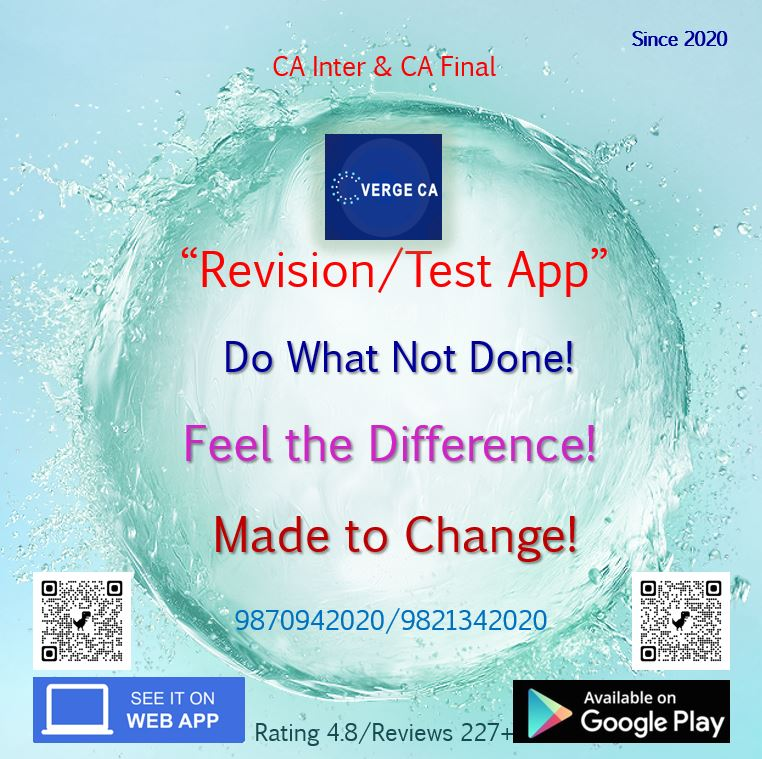
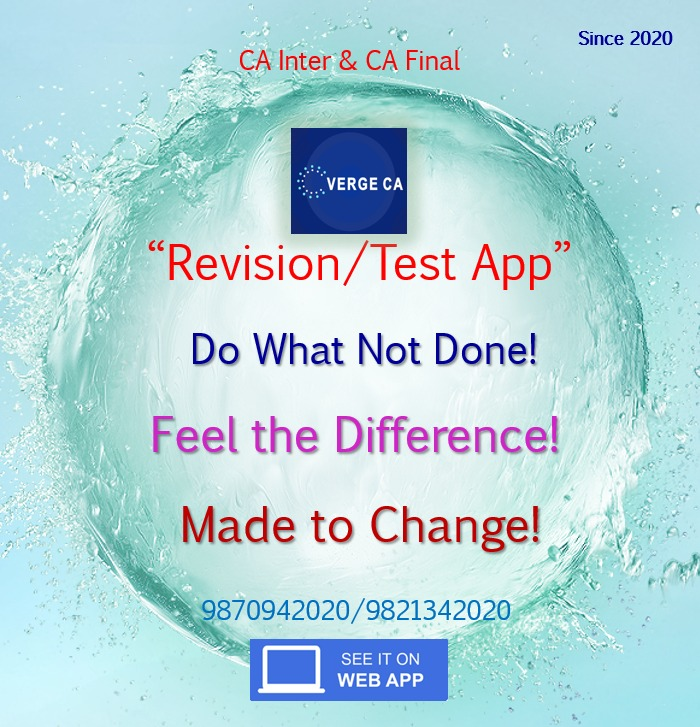
updating page

diff --git a/app/about/page.tsx b/app/about/page.tsx
@@ -69,7 +69,7 @@ export default function page() {
                 <div className="text-lg text-justify text-muted-foreground mt-10">
                     Founded and led Verge CA App, a specialized application tailored to the needs of aspiring Chartered Accountants, focusing on the provision of in-depth subject knowledge & technical guidance of highest educational quality, since November, 2020. Developed and curated online content and practice materials to aid CA Aspirants in their journey.
                     <br /><br />
-                    Verge CA App is Revision App for CA Final & CA Inter Students and is available on both Web App & Mobile App. CA Inter (Subjects: Advanced Accounting, Costing, Audit, Financial Management & Strategic Management) & CA Final (Subjects: Financial Reporting, Advanced Financial Management & Auditing).
+                    Verge CA App is Revision App for CA Final & CA Inter Students and is available on both Web App. CA Inter (Subjects: Advanced Accounting, Costing, Audit, Financial Management & Strategic Management) & CA Final (Subjects: Financial Reporting, Advanced Financial Management & Auditing).
                     <br /><br />
                     Verge CA is Live Comprehensive & Time Management Revision App covering all Institute Materials at one place. Compilation Covers: (New Syllabus & Old Syllabus). App contains Questions from Institute Materials (Study Material, Practice Manual, Previous Exam Papers, RTP&apos;s & MTP&apos;s) at one place, which would help the students get a competitive edge in CA Exams.
                     <br /><br />

diff --git a/lib/data.tsx b/lib/data.tsx
@@ -1,11 +1,11 @@
 // importing icons
 import {
     AlarmClockPlus,
+    HeartHandshake,
     Highlighter,
     History,
     Infinity,
-    LibraryBig,
-    MonitorSmartphone
+    LibraryBig
 } from "lucide-react";
 
 export const links = [
@@ -78,9 +78,9 @@ export const features = [
         "paragraph": "All Institute Materials are updated on a real-time basis. Don't have to wait for Printed Reference Materials."
     },
     {
-        "icon": MonitorSmartphone,
-        "heading": "Web & Mobile App",
-        "paragraph": "Student can login either from Web App or Mobile App using same credentials, any one at a time."
+        "icon": HeartHandshake,
+        "heading": "Free for Daughters of India",
+        "paragraph": "Female students get free access to the complete app as part of our Daughters of India initiative."
     },
     {
         "icon": LibraryBig,

diff --git a/components/sections/main.tsx b/components/sections/main.tsx
@@ -219,9 +219,9 @@ export function Main() {
                         <Carousel2 />
                     </CarouselItem>
 
-                    <CarouselItem key={3} className="flex items-center">
+                    {/* <CarouselItem key={3} className="flex items-center">
                         <Carousel3 />
-                    </CarouselItem>
+                    </CarouselItem> */}
 
                     <CarouselItem key={4} className="flex items-center">
                         <Carousel4 />

diff --git a/app/page.tsx b/app/page.tsx
@@ -11,7 +11,7 @@ import { Pricing } from "@/components/sections/pricing";
 import { Introduction } from "@/components/sections/introduction";
 import { Demo } from "@/components/sections/demo";
 import { Analysis } from "@/components/sections/analysis";
-import { Faq } from "@/components/sections/faq";
+// import { Faq } from "@/components/sections/faq";
 import { ContactUs } from "@/components/sections/contact-us";
 import { AOS_Component } from "@/components/aos/aos";
 

diff --git a/components/sections/demo.tsx b/components/sections/demo.tsx
@@ -43,7 +43,7 @@ export function Demo() {
                     </h1>
 
                     <p className="paragraph">
-                        The app is available in the form of Web App as well as an Android app. <br />
+                        The app is available in the form of Web App. <br />
                         View App Introduction and Screenshots of the Application.
                     </p>
 
